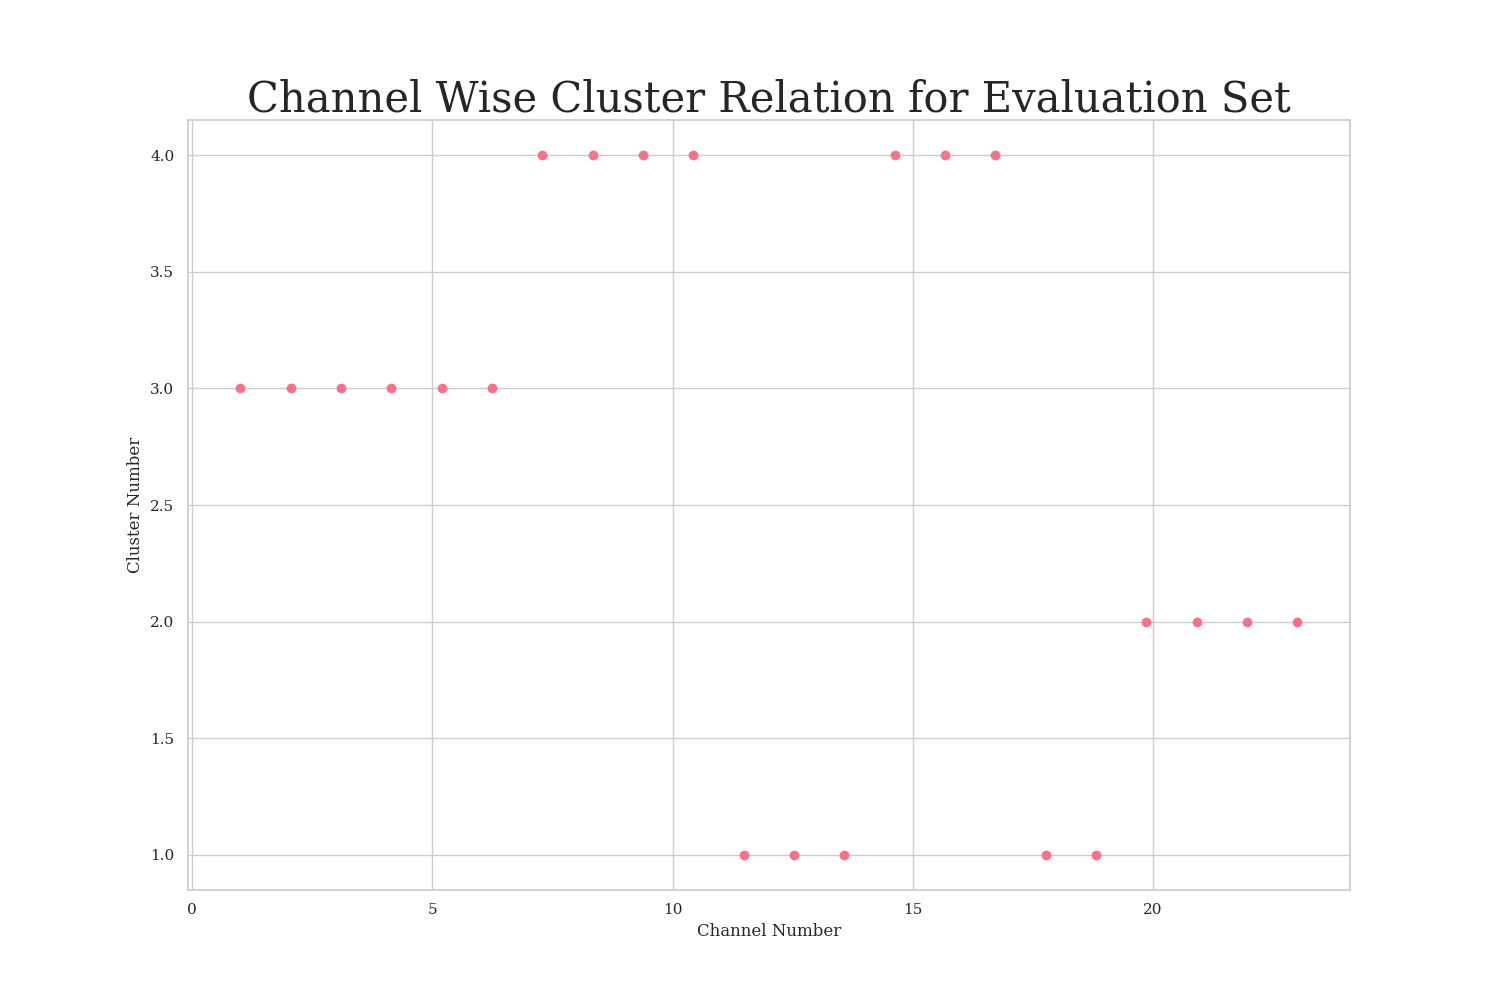
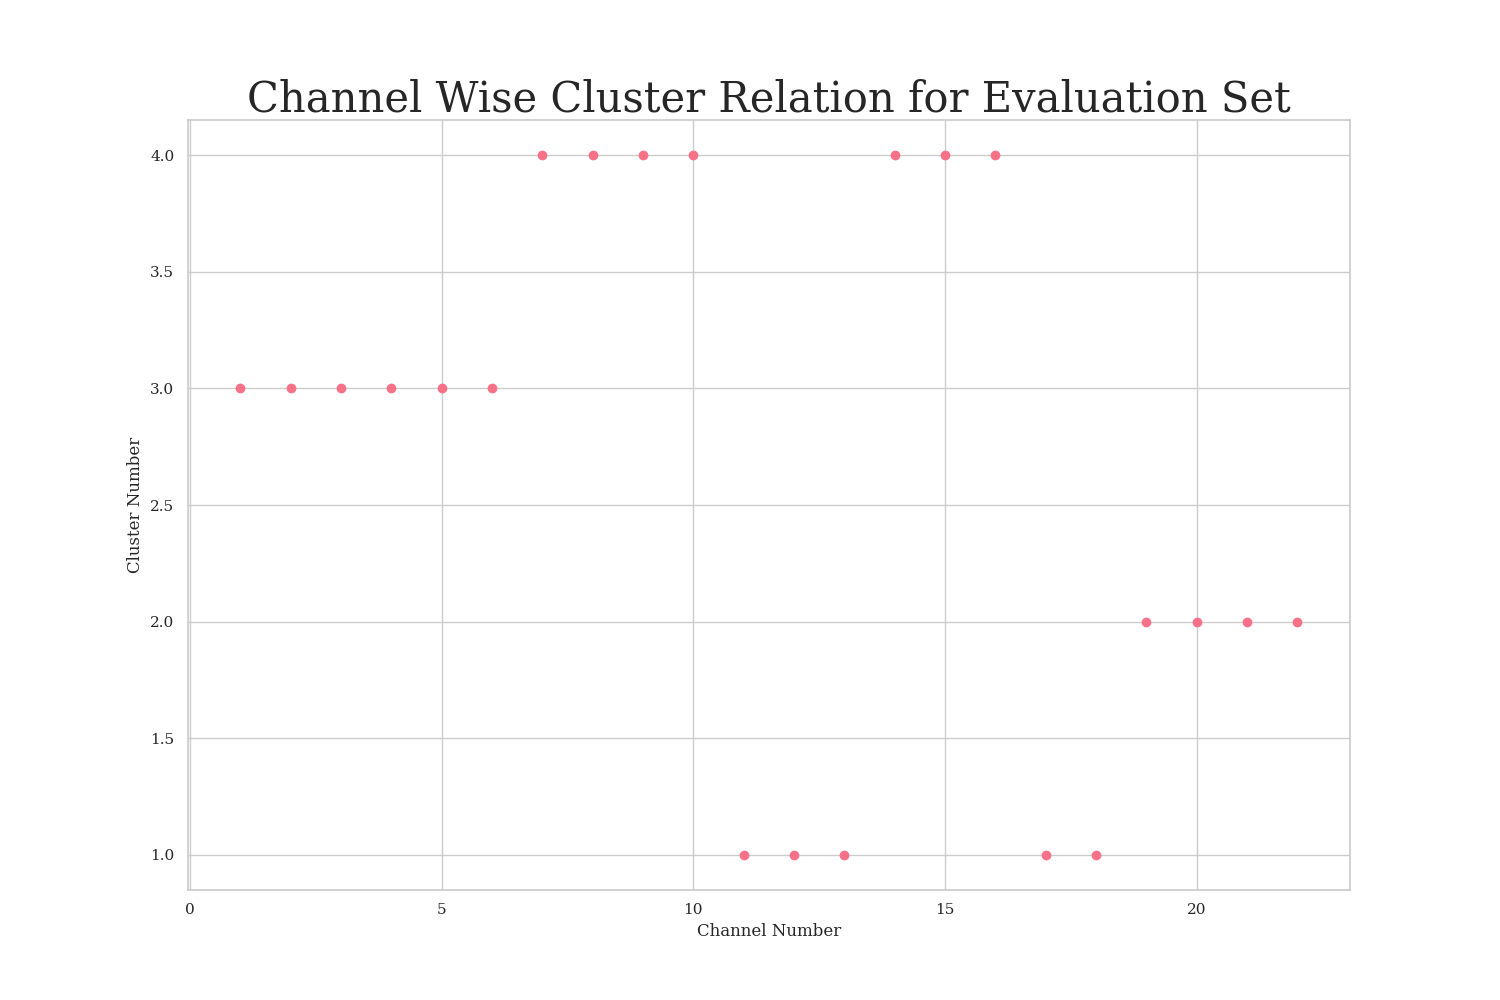
updated clustering

diff --git a/src/data_summary_stats.py b/src/data_summary_stats.py
@@ -120,7 +120,7 @@ def get_summary_stats(data_sets: Dict,
         for channel, label in enumerate(cluster_labels):
             clusters[label + 1].append(channel + 1)
         print(f'Clustered Channels - \n{clusters}')
-        x = np.linspace(1, 23, 22)
+        x = np.linspace(1, 22, 22)
         y = cluster_labels + 1
         plt.figure(figsize=(15, 10))
         plt.scatter(x=x, y=y)
